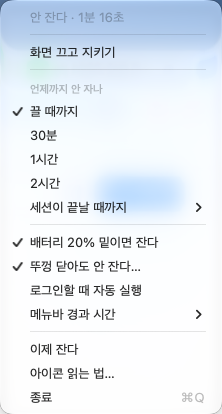
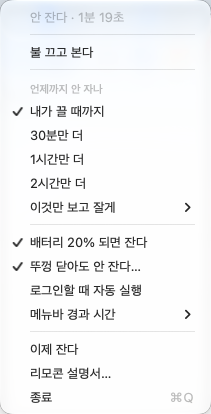
feat: 메뉴와 알림 문구를 아빠 말투로 맞춘다
화자가 섞여 있었다 — '안 잔다'·'이제 잔다' 는 아빠 말인데
'화면 끄고 지키기'·'아이콘 읽는 법' 은 설명서 말투였다.

  화면 끄고 지키기   → 불 끄고 본다
  끌 때까지         → 내가 끌 때까지
  30분              → 30분만 더
  세션이 끝날 때까지  → 이것만 보고 잘게
  배터리 20% 밑이면  → 배터리 20% 되면
  아이콘 읽는 법     → 리모콘 설명서
  세션 지키는 중     → 보는 중
  아빠 잔다(알림)    → 다 봤다

조건과 설정(로그인 자동 실행, 메뉴바 경과 시간)은 기능이 사라지지
않게 그대로 뒀다. 스크린샷 3장도 새 문구로 다시 찍었다.

diff --git a/Sources/App.swift b/Sources/App.swift
@@ -107,7 +107,7 @@ final class AppDelegate: NSObject, NSApplicationDelegate, NSMenuDelegate {
         menu.addItem(.separator())
 
         // 가장 자주 쓸 동작이라 맨 위에 둔다
-        let leaveItem = actionItem("화면 끄고 지키기", action: #selector(handleLeaveNow))
+        let leaveItem = actionItem("불 끄고 본다", action: #selector(handleLeaveNow))
         leaveItem.toolTip = "화면을 바로 끄고, 안 걸려 있으면 '끌 때까지' 로 켠다. 세션은 계속 돈다."
         menu.addItem(leaveItem)
 
@@ -115,7 +115,7 @@ final class AppDelegate: NSObject, NSApplicationDelegate, NSMenuDelegate {
 
         // 다섯 항목이 한 질문의 답이라는 걸 제목으로 보인다
         menu.addItem(.sectionHeader(title: "언제까지 안 자나"))
-        menu.addItem(modeItem("끌 때까지", mode: .indefinite))
+        menu.addItem(modeItem("내가 끌 때까지", mode: .indefinite))
         for seconds in AppState.durationChoices {
             menu.addItem(modeItem(KeepAwakeMode.durationTitle(seconds), mode: .duration(seconds)))
         }
@@ -124,7 +124,7 @@ final class AppDelegate: NSObject, NSApplicationDelegate, NSMenuDelegate {
         menu.addItem(.separator())
 
         // 둘 다 "체크 = 이 문장이 사실" 로 읽히는 안전장치다
-        let batteryItem = checkItem("배터리 \(AppState.batteryThreshold)% 밑이면 잔다",
+        let batteryItem = checkItem("배터리 \(AppState.batteryThreshold)% 되면 잔다",
                                     isOn: state.releasesOnLowBattery,
                                     action: #selector(handleBatteryToggle))
         batteryItem.toolTip = "충전기가 빠진 채 배터리가 \(AppState.batteryThreshold)% 아래로 내려가면 유지를 스스로 푼다."
@@ -149,7 +149,7 @@ final class AppDelegate: NSObject, NSApplicationDelegate, NSMenuDelegate {
         if state.caffeinate.isRunning {
             menu.addItem(actionItem("이제 잔다", action: #selector(handleStop)))
         }
-        menu.addItem(actionItem("아이콘 읽는 법…", action: #selector(handleHelpClick)))
+        menu.addItem(actionItem("리모콘 설명서…", action: #selector(handleHelpClick)))
 
         let quit = actionItem("종료", action: #selector(handleQuit))
         quit.keyEquivalent = "q"
@@ -159,14 +159,14 @@ final class AppDelegate: NSObject, NSApplicationDelegate, NSMenuDelegate {
     /// 세션 수에 따라 모양이 셋이다 — 없음·하나(자동 선택)·여럿(서브메뉴)
     private func sessionItem() -> NSMenuItem {
         guard !state.sessions.isEmpty else {
-            return disabledItem("세션이 끝날 때까지 (실행 중 없음)")
+            return disabledItem("이것만 보고 잘게 (볼 게 없다)")
         }
         if state.sessions.count == 1, let only = state.recentSessions.first {
-            return modeItem("세션이 끝날 때까지 (\(only.name))",
+            return modeItem("이것만 보고 잘게 (\(only.name))",
                             mode: .session(pid: only.pid, name: only.name))
         }
 
-        let parent = NSMenuItem(title: "세션이 끝날 때까지", action: nil, keyEquivalent: "")
+        let parent = NSMenuItem(title: "이것만 보고 잘게", action: nil, keyEquivalent: "")
         let submenu = NSMenu()
         for session in state.recentSessions {
             submenu.addItem(modeItem(state.menuLabel(for: session),

diff --git a/Sources/Notifier.swift b/Sources/Notifier.swift
@@ -68,24 +68,24 @@ final class Notifier {
 
     private static func text(for kind: Kind) -> (String, String) {
         if case let .sessionEnded(name, remaining) = kind {
-            let tail = remaining > 0 ? " 다른 세션 \(remaining)개는 아직 돌고 있다." : ""
-            return ("아빠 잔다", "\(name) 세션이 끝나서 유지를 해제했다.\(tail)")
+            let tail = remaining > 0 ? " 다른 세션 \(remaining)개는 아직 돈다." : ""
+            return ("다 봤다", "\(name) 끝나서 껐다.\(tail)")
         }
         if case let .chargerUnplugged(isLidSettingOn) = kind {
-            return ("충전기가 빠졌다", Self.lidTail("배터리로 버티는 중이다.", isLidSettingOn))
+            return ("선 빠졌다", Self.lidTail("배터리로 버티는 중이다.", isLidSettingOn))
         }
         if case let .durationExpired(title, isLidSettingOn) = kind {
-            return ("시간이 다 됐다", Self.lidTail("\(title) 이 지나 유지를 해제했다.", isLidSettingOn))
+            return ("시간 다 됐다", Self.lidTail("\(title) 지나서 껐다.", isLidSettingOn))
         }
         if case let .batteryLow(percent, isLidSettingOn) = kind {
-            return ("배터리가 \(percent)% 다", Self.lidTail("유지를 해제했다.", isLidSettingOn))
+            return ("힘 빠졌다", Self.lidTail("배터리 \(percent)% 라 껐다.", isLidSettingOn))
         }
         return ("아빠안잔다", "")
     }
 
     private static func lidTail(_ body: String, _ isLidSettingOn: Bool) -> String {
         guard isLidSettingOn else { return body }
-        return body + " 앱은 해제했으나 뚜껑 닫힘 시스템 설정은 켜져 있다."
+        return body + " 뚜껑 닫힘 설정은 아직 켜져 있다."
     }
 
     private func deliver(title: String, body: String) {

diff --git a/Sources/HelpWindow.swift b/Sources/HelpWindow.swift
@@ -19,7 +19,7 @@ final class HelpWindow: NSObject {
                               styleMask: [.titled, .closable],
                               backing: .buffered,
                               defer: false)
-        window.title = "아이콘 읽는 법"
+        window.title = "리모콘 설명서"
         window.isReleasedWhenClosed = false
         window.contentViewController = NSHostingController(rootView: HelpView())
         window.center()
@@ -38,7 +38,7 @@ struct HelpView: View {
                         detail: "아무것도 안 걸렸다. 맥은 평소대로 잠든다.")
                     row(.awake, border: false, title: "안 잔다",
                         detail: "깨워 두는 중이다. 파동이 붙는다.")
-                    row(.keepingSession, border: false, title: "세션 지키는 중",
+                    row(.keepingSession, border: false, title: "보는 중",
                         detail: "고른 세션이 끝나면 저절로 풀린다. 속이 꽉 찬다.")
                 }
 

diff --git a/Sources/Caffeinate.swift b/Sources/Caffeinate.swift
@@ -20,7 +20,7 @@ enum KeepAwakeMode: Equatable {
     case session(pid: Int32, name: String)
 
     var menuTitle: String {
-        if case .indefinite = self { return "끌 때까지" }
+        if case .indefinite = self { return "내가 끌 때까지" }
         if case let .duration(seconds) = self { return Self.durationTitle(seconds) }
         if case let .session(_, name) = self { return name }
         return ""
@@ -28,7 +28,7 @@ enum KeepAwakeMode: Equatable {
 
     static func durationTitle(_ seconds: TimeInterval) -> String {
         let minutes = Int(seconds / 60)
-        return minutes < 60 ? "\(minutes)분" : "\(minutes / 60)시간"
+        return minutes < 60 ? "\(minutes)분만 더" : "\(minutes / 60)시간만 더"
     }
 }
 

diff --git a/Sources/AppState.swift b/Sources/AppState.swift
@@ -77,7 +77,7 @@ final class AppState: ObservableObject {
     var statusText: String {
         guard let mode = caffeinate.mode else { return "잔다" }
         let elapsed = fullElapsedText.map { " · \($0)" } ?? ""
-        if case let .session(_, name) = mode { return "\(name) 지키는 중\(elapsed)" }
+        if case let .session(_, name) = mode { return "\(name) 보는 중\(elapsed)" }
         return "안 잔다\(elapsed)"
     }
 

diff --git a/Sources/MenuBarIcon.swift b/Sources/MenuBarIcon.swift
@@ -4,13 +4,13 @@ import AppKit
 enum AwakeState: Hashable {
     case sleeping       // 잔다
     case awake          // 안 잔다
-    case keepingSession // 세션 지키는 중
+    case keepingSession // 보는 중
 }
 
 private let stateNames: [AwakeState: String] = [
     .sleeping: "잔다",
     .awake: "안 잔다",
-    .keepingSession: "세션 지키는 중",
+    .keepingSession: "보는 중",
 ]
 
 /**

diff --git a/README.md b/README.md
@@ -19,7 +19,7 @@
 <tr>
 <td align="center"><img src="docs/images/state-sleeping.png" width="54"><br><b>잔다</b><br><sub>안 걸렸다</sub></td>
 <td align="center"><img src="docs/images/state-awake.png" width="54"><br><b>안 잔다</b><br><sub>깨워 두는 중</sub></td>
-<td align="center"><img src="docs/images/state-session.png" width="54"><br><b>세션 지키는 중</b><br><sub>끝나면 풀린다</sub></td>
+<td align="center"><img src="docs/images/state-session.png" width="54"><br><b>보는 중</b><br><sub>끝나면 풀린다</sub></td>
 <td align="center"><img src="docs/images/state-lid.png" width="54"><br><b>테두리</b><br><sub>뚜껑 설정 켜짐</sub></td>
 </tr>
 </table>
@@ -68,9 +68,9 @@ xattr -dr com.apple.quarantine /Applications/DadsWatchingThis.app
 
 | 항목 | 하는 일 |
 |---|---|
-| **화면 끄고 지키기** | 자리 비울 때 한 번으로. 유지를 켜고 화면을 끈다 |
+| **불 끄고 본다** | 자리 비울 때 한 번으로. 유지를 켜고 화면을 끈다 |
 | **언제까지 안 자나** | 끝나는 조건. 세션을 고르면 그게 끝날 때 풀린다 |
-| **배터리 20% 밑이면 잔다** | 충전기가 빠진 채 배터리가 줄면 스스로 푼다 |
+| **배터리 20% 되면 잔다** | 충전기가 빠진 채 배터리가 줄면 스스로 푼다 |
 | **뚜껑 닫아도 안 잔다** | 시스템 설정. 암호는 macOS 가 받는다 |
 | **메뉴바 경과 시간** | 아이콘 옆 숫자. 숨기거나 초까지 볼 수 있다 |
 
@@ -84,7 +84,7 @@ xattr -dr com.apple.quarantine /Applications/DadsWatchingThis.app
 
 <img src="docs/images/screenshot-sessions.png" width="280" align="right" alt="세션 목록">
 
-`세션이 끝날 때까지` 에 들어가면 **돌고 있는 Claude Code 세션 목록**이 나온다. 하나를 고르면 그 세션이 끝날 때 유지가 저절로 풀린다.
+`이것만 보고 잘게` 에 들어가면 **돌고 있는 Claude Code 세션 목록**이 나온다. 하나를 고르면 그 세션이 끝날 때 유지가 저절로 풀린다.
 
 폴더명과 경과 시간으로 구분하고, 그것까지 같으면 PID 뒷자리를 붙인다. 최근 12시간 안에 띄운 것만, 최대 8개까지 올라온다.
 
@@ -93,9 +93,9 @@ xattr -dr com.apple.quarantine /Applications/DadsWatchingThis.app
 ## 기능
 
 - [x] 메뉴바에서 상태 확인 — 3가지 모양 × 테두리
-- [x] 끝나는 조건 선택 — 끌 때까지 / 30분 / 1시간 / 2시간 / **세션이 끝날 때까지**
+- [x] 끝나는 조건 선택 — 내가 끌 때까지 / 30분·1시간·2시간만 더 / **이것만 보고 잘게**
 - [x] Claude Code 세션 목록에서 지목 (최근 12시간, 폴더명으로 구분)
-- [x] 화면 끄고 지키기
+- [x] 불 끄고 본다 — 화면을 끄면서 유지를 건다
 - [x] 뚜껑 닫힘 시스템 설정 읽기·쓰기
 - [x] 끊김 이력 — 자리 비운 사이 잠들었으면 시각과 사유
 - [x] 알림 3종 — 세션 종료 · 충전기 분리 · 배터리 해제
